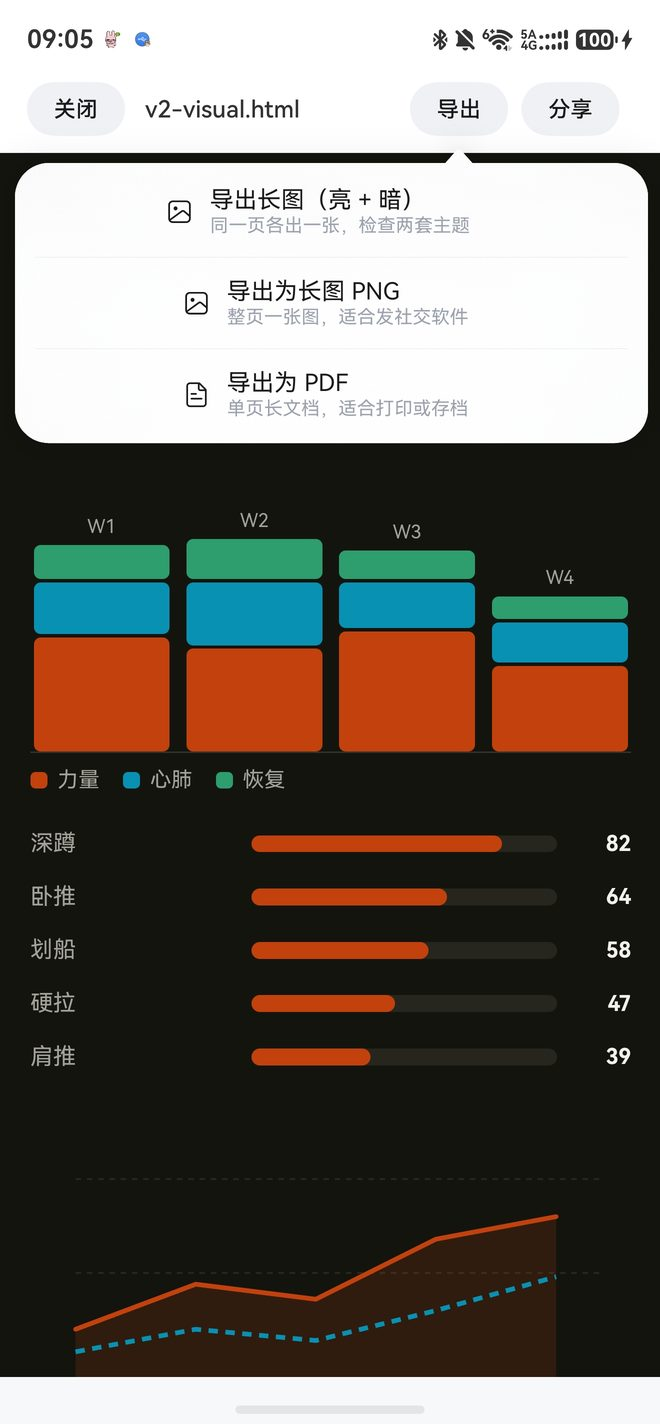
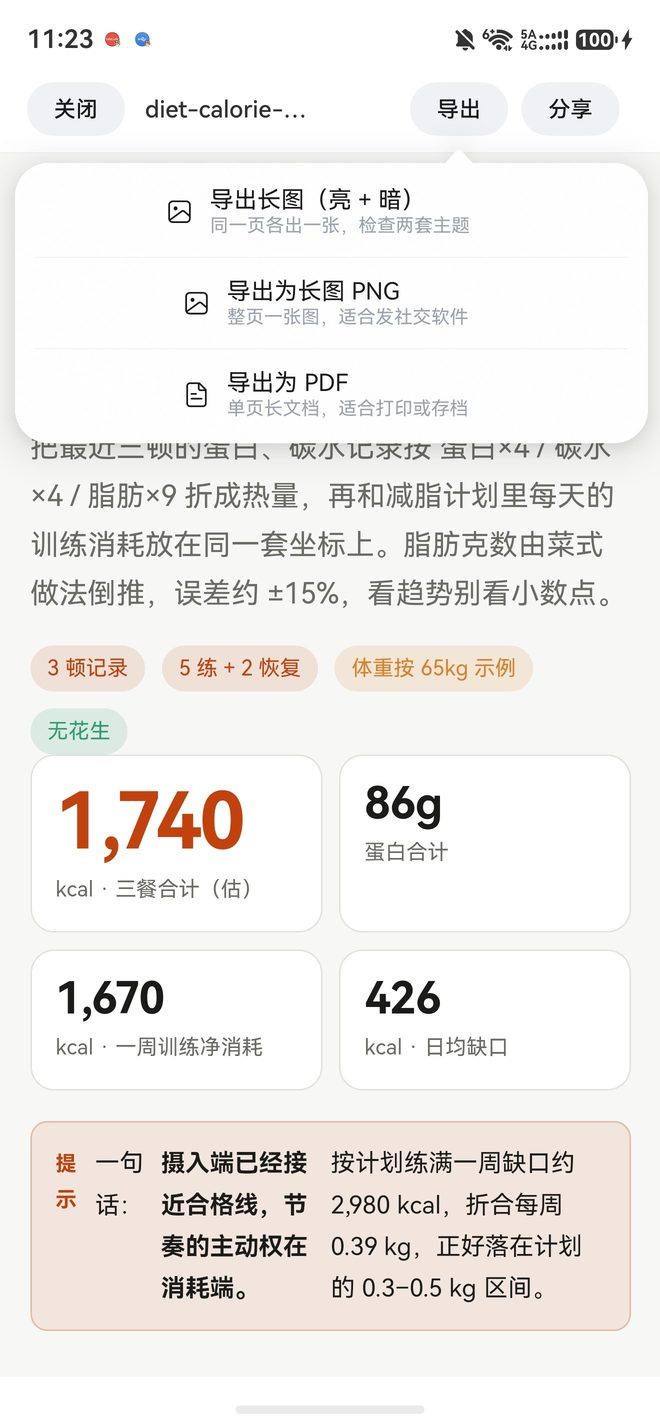
Show the real long image and the share sheet, not placeholder shots
The gallery illustrated export with a dark demo page and described sharing
in prose. The device produced better evidence: a diet-calorie artifact page,
the export menu over it (light+dark / long PNG / PDF), the exported strip
itself, and the share sheet reporting one item at 2.07 MB.

Those four replace the two older export/artifact shots and add a short
"long image and sharing" block underneath the grid, so a reader can see the
actual product of the export instead of taking the caption's word for it.
The strip is downscaled to 420px wide (270KB) to keep the repository light;
the rest join the existing 660px JPEG set.

diff --git a/README.md b/README.md
@@ -101,16 +101,16 @@ This repository is the **HarmonyOS shell** for [DeepSeek Harness](https://github
 <tr>
 <td width="33%">
 
-**导出**：整页长图 / 单页 PDF / 亮暗双长图
+**导出**：亮暗双长图 / 整页长图 PNG / 单页 PDF
 
 <img src="docs/images/screens/04-export.jpg" alt="导出菜单" width="100%">
 
 </td>
 <td width="33%">
 
-**HTML 产物**：暗色下的组件页面，可拉起分享
+**HTML 产物**：数据页真实渲染（饮食记录 × 训练消耗）
 
-<img src="docs/images/screens/05-html.jpg" alt="HTML 产物预览与分享" width="100%">
+<img src="docs/images/screens/05-html.jpg" alt="HTML 产物页面" width="100%">
 
 </td>
 <td width="33%">
@@ -141,6 +141,27 @@ This repository is the **HarmonyOS shell** for [DeepSeek Harness](https://github
 **设置**：密钥、GitHub Token、模型、能力开关
 
 <img src="docs/images/screens/09-settings.jpg" alt="设置" width="100%">
+
+</td>
+</tr>
+</table>
+
+### 长图成品与分享
+
+<table>
+<tr>
+<td width="28%" valign="top">
+
+**导出的整页长图**（实际产物，未拼接）
+
+<img src="docs/images/screens/10-long-image.jpg" alt="导出的整页长图" width="100%">
+
+</td>
+<td width="40%" valign="top">
+
+**分享面板**：整页长图作为 1 项 **2.07 MB** 交给系统，可发微信 / QQ / 华为分享
+
+<img src="docs/images/screens/11-share.jpg" alt="分享面板" width="100%">
 
 </td>
 </tr>
